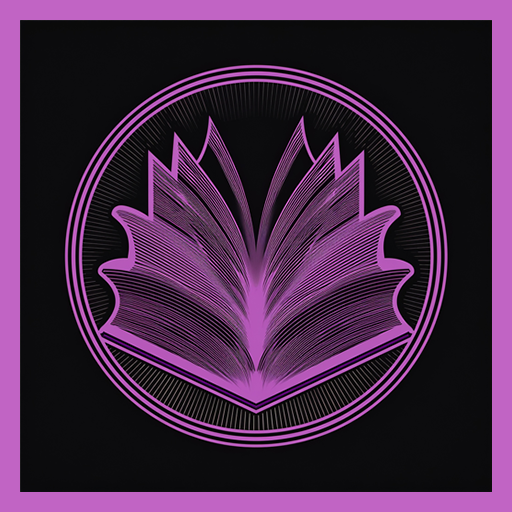
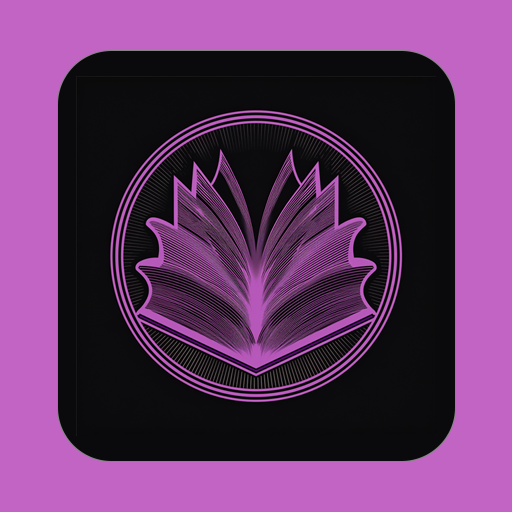
Updates

diff --git a/index.html b/index.html
@@ -2,10 +2,10 @@
 <html lang="pt-BR">
   <head>
     <meta charset="UTF-8" />
-    <link rel="icon" type="image/svg+xml" href="./vite.svg" />
+    <link rel="icon" type="image/png" href="./apple-touch-icon.png" />
     
-    <!-- Ícone para Tela de Início do iPhone e Android -->
-    <link rel="apple-touch-icon" href="./apple-touch-icon.png" />
+    <!-- Ícone para Tela de Início do iOS -->
+    <link rel="apple-touch-icon" sizes="180x180" href="./apple-touch-icon.png" />
     
     <meta 
       name="viewport" 
@@ -14,6 +14,7 @@
     <meta name="theme-color" content="#09090b" />
     <meta name="apple-mobile-web-app-capable" content="yes" />
     <meta name="apple-mobile-web-app-status-bar-style" content="black-translucent" />
+    <meta name="apple-mobile-web-app-title" content="Painel" />
     <title>Painel Pessoal</title>
     <script type="module" crossorigin src="/painel-pessoal/assets/index-C97KsYac.js"></script>
     <link rel="stylesheet" crossorigin href="/painel-pessoal/assets/index-Bia4pB-a.css">
